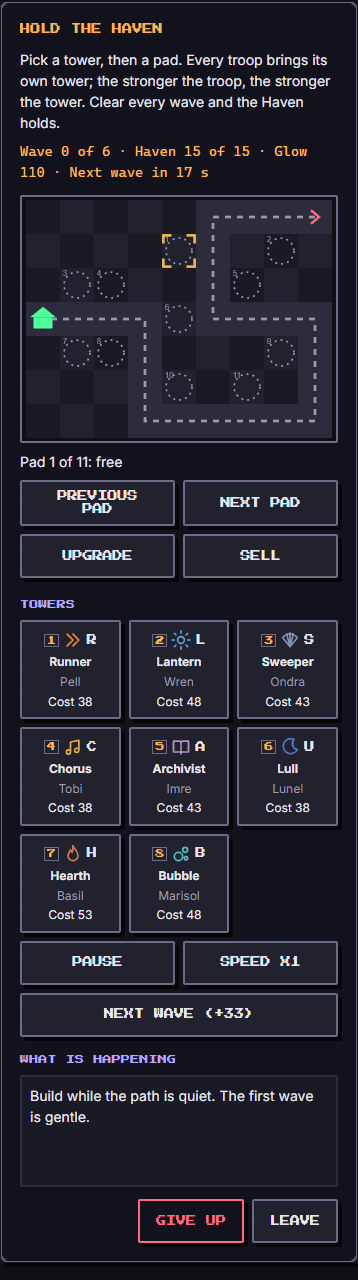
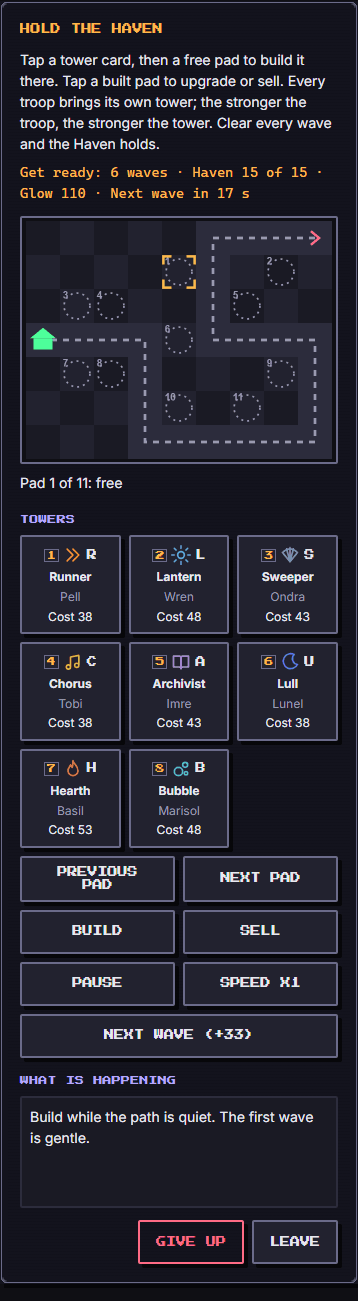
fix(games): Hold the Haven cards fit under the board, no per-frame key string, e2e builds with buttons [game-tower-defense]

diff --git a/e2e/games/tower-defense.spec.ts b/e2e/games/tower-defense.spec.ts
@@ -13,6 +13,14 @@ const ID = 'tower-defense';
 const hud = (page: Page) => page.getByTestId('lab-stage').getByTestId('td-hud');
 const board = (page: Page) => page.getByTestId('lab-stage').getByTestId('td-board');
 
+/** Move to the next pad, pick the card with its key and press Build (the keyboard still works while a button has the focus). */
+async function buildNext(page: Page, card: string): Promise<void> {
+  const stage = page.getByTestId('lab-stage');
+  await stage.getByRole('button', { name: 'Next pad' }).click();
+  await page.keyboard.press(card);
+  await stage.getByRole('button', { name: /^Build \(/ }).click();
+}
+
 // 1. Required: it loads, and axe finds no serious violation (the audit runs on the mobile project only).
 test('loads in the Lab and passes axe', async ({ page }, testInfo) => {
   await openLab(page, ID, { seed: 11 });
@@ -34,12 +42,9 @@ test('places a tower with the keyboard and pauses with P', async ({ page }, test
   await page.keyboard.press('Enter');
   await expect(stage.getByTestId('td-feed')).toContainText(/takes a post: Runner on pad/);
   expect(Number(/Glow (\d+)/.exec(await hud(page).innerText())?.[1])).toBeLessThan(glowBefore);
-  await page.keyboard.press('ArrowDown');
-  await page.keyboard.press('2');
-  await page.keyboard.press('Enter');
-  await page.keyboard.press('ArrowRight');
-  await page.keyboard.press('3');
-  await page.keyboard.press('Enter');
+  // Two more towers with the buttons: next pad, pick a card, Build.
+  await buildNext(page, '2');
+  await buildNext(page, '3');
   // Call the first wave and let a few monsters walk in before the screenshot.
   await page.keyboard.press('n');
   await expect(hud(page)).toContainText('Wave 1 of 6');
@@ -66,7 +71,11 @@ test('plays a gentle game to an outcome', async ({ page }, testInfo) => {
   // The Lab shows the bot's outcome while the stage still holds a fresh game: play a few real seconds, then stand down mid-wave to show the closing screen.
   const stage = page.getByTestId('lab-stage');
   await board(page).focus();
-  for (const key of ['1', 'Enter', 'ArrowRight', '2', 'Enter', 'ArrowDown', '3', 'Enter', 'n']) await page.keyboard.press(key);
+  await page.keyboard.press('1');
+  await page.keyboard.press('Enter');
+  await buildNext(page, '2');
+  await buildNext(page, '3');
+  await page.keyboard.press('n');
   await expect.poll(async () => Number(await page.getByTestId('td-root').getAttribute('data-tick')), { timeout: 10_000 }).toBeGreaterThan(160);
   await stage.getByRole('button', { name: 'Give up' }).click();
   await expect(stage.getByRole('status')).toContainText('The troops head home');

diff --git a/src/games/tower-defense/Screen.tsx b/src/games/tower-defense/Screen.tsx
@@ -288,7 +288,7 @@ export default function TowerDefenseScreen(props: GameScreenProps) {
   const fx = useState(newFx)[0];
   const prevPos = useState(() => new Map<number, number>())[0];
   const base = useRef<HTMLCanvasElement | null>(null);
-  const baseKey = useRef('');
+  const baseKey = useRef({ w: -1, h: -1, dpr: -1 });
   const view = useRef<View>({ alpha: 1, reduced: reducedMotion, cursor, pickedKind: null, pickedPower: 0, hintPad: -1, prevPos, fx });
 
   useEffect(() => {
@@ -304,8 +304,8 @@ export default function TowerDefenseScreen(props: GameScreenProps) {
       const ctx = canvasRef.current?.getContext('2d');
       if (!ctx || size.width === 0) return;
       // The static layer (grass, road, Haven, pads) is drawn once per size into an offscreen canvas.
-      const key = `${size.width}x${size.height}@${size.dpr}`;
-      if (baseKey.current !== key || !base.current) {
+      const k = baseKey.current;
+      if (k.w !== size.width || k.h !== size.height || k.dpr !== size.dpr || !base.current) {
         const off = base.current ?? document.createElement('canvas');
         off.width = Math.round(size.width * size.dpr);
         off.height = Math.round(size.height * size.dpr);
@@ -315,7 +315,9 @@ export default function TowerDefenseScreen(props: GameScreenProps) {
           drawStatic(octx, size.width, size.height, cur.current, palette);
         }
         base.current = off;
-        baseKey.current = key;
+        k.w = size.width;
+        k.h = size.height;
+        k.dpr = size.dpr;
       }
       ctx.setTransform(size.dpr, 0, 0, size.dpr, 0, 0);
       view.current.alpha = reducedMotion ? 1 : alpha;

diff --git a/src/games/tower-defense/Screen.module.css b/src/games/tower-defense/Screen.module.css
@@ -88,10 +88,10 @@
 }
 
 /* The cards fill the row with as many columns as fit (4 on a phone, 3 in the narrow landscape column);
-   the minimum track is min(100%, 4.9rem) so it still obeys the minmax rule and never overflows. */
+   the minimum track is min(100%, 4.2rem) so it still obeys the minmax rule and never overflows. */
 .cards {
   display: grid;
-  grid-template-columns: repeat(auto-fill, minmax(min(100%, 4.9rem), 1fr));
+  grid-template-columns: repeat(auto-fill, minmax(min(100%, 4.2rem), 1fr));
   gap: var(--space-2);
   margin: 0;
   padding: 0;
@@ -203,7 +203,7 @@
 
 @media (max-width: 359px) {
   .cards {
-    grid-template-columns: repeat(2, minmax(0, 1fr));
+    grid-template-columns: repeat(3, minmax(0, 1fr));
   }
 }
 
